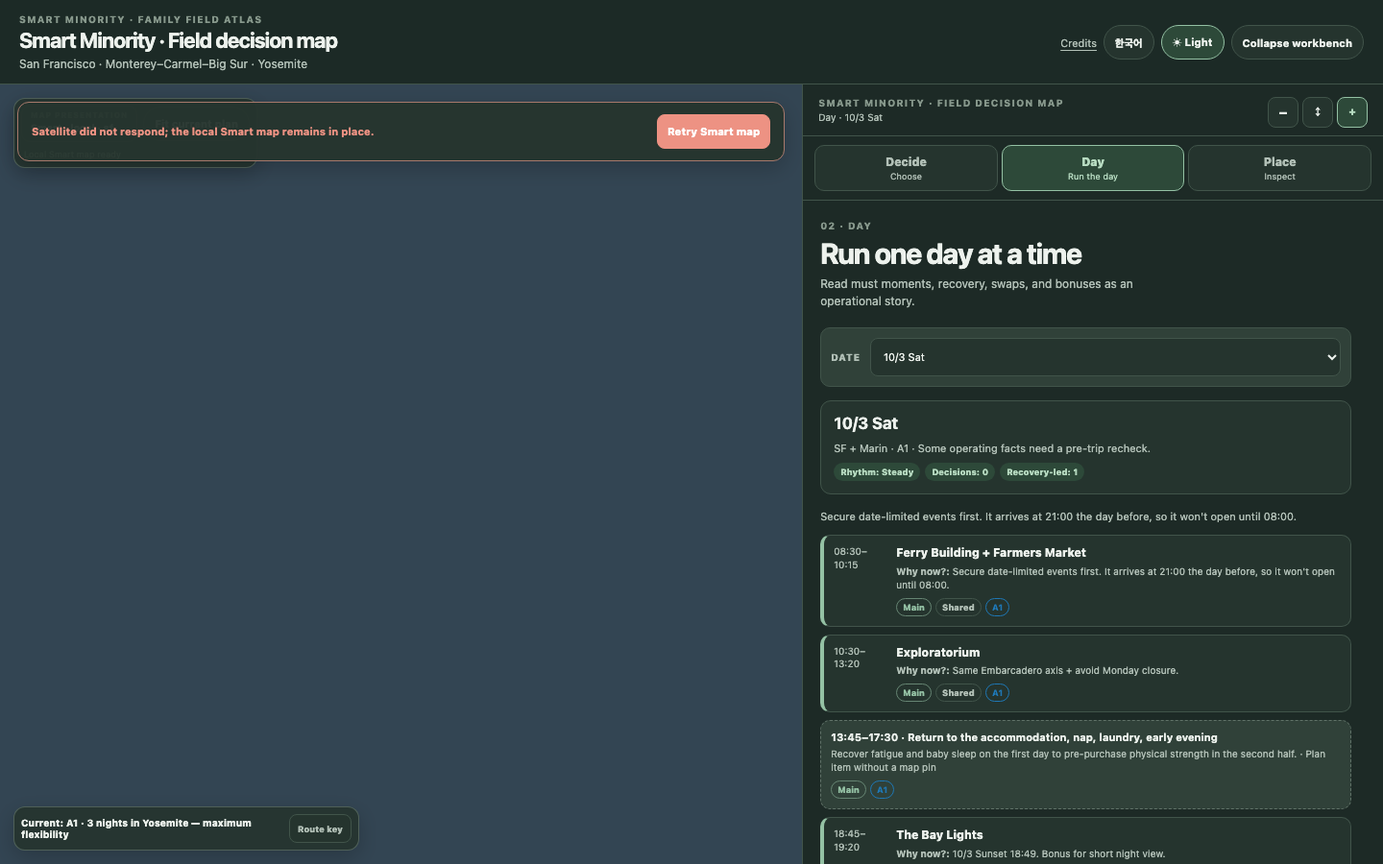
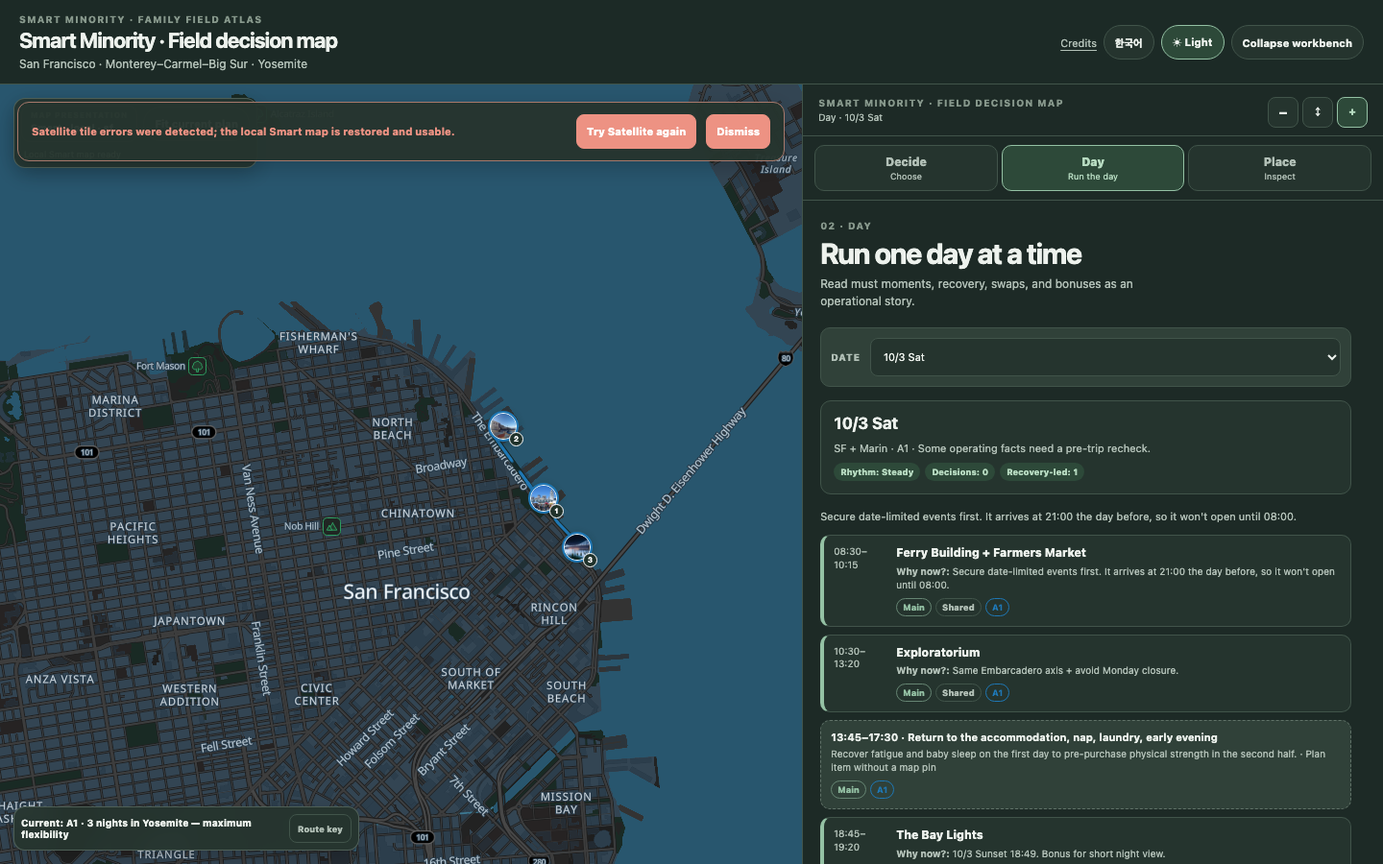
fix: restore Smart camera after Satellite failure

diff --git a/src/app_phase7.js b/src/app_phase7.js
@@ -40,6 +40,7 @@
   let geometryWaiters = [];
   let observedMapSize = null;
   let satelliteFallbackFlight = null;
+  let smartCamera = null;
 
   const markStartup = (name, detail = {}) => {
     if (typeof window.__tripStartupMark === 'function') return window.__tripStartupMark(name, detail);
@@ -138,6 +139,18 @@
   }
   function setStatus(text) {
     const startup = document.getElementById('startupStatus'); if (startup) startup.textContent = text;
+  }
+  function clearMapFeedback() {
+    const errorBox = document.getElementById('mapError'), retry = document.getElementById('smartRetry');
+    if (errorBox) errorBox.hidden = true;
+    if (retry) { retry.dataset.retryProvider = 'vector'; retry.textContent = m('retrySmart'); }
+  }
+  function showSatelliteFallbackFeedback() {
+    const errorBox = document.getElementById('mapError'), retry = document.getElementById('smartRetry');
+    if (!errorBox) return;
+    errorBox.querySelector('.map-error-message').textContent = m('satelliteFallback');
+    errorBox.hidden = false;
+    if (retry) { retry.dataset.retryProvider = 'satellite'; retry.textContent = m('retrySatellite'); }
   }
   function showMapFailure(error, phase = 'runtime') {
     const message = `${m('smartFailure')} ${mapFailureText(error, phase)}`;
@@ -247,7 +260,7 @@
       state.runtime.providerHealth[provider] = 'failed'; state.runtime.provider = 'vector';
       if (reason === 'tile_error') recordRuntimeEvent('tile_error', provider, detail);
       recordRuntimeEvent('fallback_to_smart', provider, { reason, ...detail });
-      const errorBox = document.getElementById('mapError'); if (errorBox && provider === 'satellite') { errorBox.querySelector('.map-error-message').textContent = m('satelliteFallback'); errorBox.hidden = false; }
+      if (provider === 'satellite') showSatelliteFallbackFeedback();
       renderProviderState(); persist(); await drawMap(true); return false;
     })();
     if (provider !== 'satellite') return fallback;
@@ -256,10 +269,11 @@
   }
   async function chooseProvider(provider) {
     if (!['vector', 'satellite'].includes(provider)) return false;
-    if (provider === 'vector') { state.runtime.provider = 'vector'; document.getElementById('mapError').hidden = true; renderProviderState(); persist(); return drawMap(true); }
+    if (provider === 'vector') { rememberSmartCamera(); state.runtime.provider = 'vector'; clearMapFeedback(); renderProviderState(); persist(); return drawMap(true); }
+    rememberSmartCamera();
     const ok = await testProvider(provider) && await testViewportProvider(provider);
     if (!ok) { await returnToSmart(provider, 'probe_failure'); return false; }
-    state.runtime.provider = provider; state.runtime.providerSwitches++; recordRuntimeEvent('provider_switch', provider, { from: 'vector' }); renderProviderState(); persist(); return drawMap(true);
+    clearMapFeedback(); state.runtime.provider = provider; state.runtime.providerSwitches++; recordRuntimeEvent('provider_switch', provider, { from: 'vector' }); renderProviderState(); persist(); return drawMap(true);
   }
   function renderProviderState() {
     const provider = state.runtime.provider, health = state.runtime.providerHealth[provider] || 'untested', status = document.getElementById('providerStatus');
@@ -289,6 +303,50 @@
       });
     }
     return features;
+  }
+  function cameraTaskContext() {
+    return { routes: [...state.task.routes].sort(), primary_route: state.task.primaryRoute, compare_routes: [...state.task.compareRoutes].sort(), date: state.task.date, region: state.task.region };
+  }
+  function sameCameraTask(a, b) {
+    return !!a && !!b && JSON.stringify(a) === JSON.stringify(b);
+  }
+  function cameraView(map = photoMap) {
+    if (!map) return null;
+    const center = map.getCenter?.();
+    if (!center || !Number.isFinite(center.lng) || !Number.isFinite(center.lat)) return null;
+    return { center: [center.lng, center.lat], zoom: map.getZoom(), bearing: map.getBearing(), pitch: map.getPitch() };
+  }
+  function mapSpatialSnapshot(map = photoMap) {
+    if (!map) return { useful: false, reason: 'map-missing' };
+    const canvas = map.getCanvas?.(), width = canvas?.clientWidth || canvas?.width || 0, height = canvas?.clientHeight || canvas?.height || 0;
+    if (!width || !height) return { useful: false, reason: 'viewport-missing', width, height };
+    const inside = point => point && point.x >= 0 && point.x <= width && point.y >= 0 && point.y <= height;
+    const visibleMarkers = DATA.markers.filter(item => markerVisible(item, { map: true }));
+    const markerPoints = visibleMarkers.map(item => { try { return map.project([item.lon, item.lat]); } catch { return null; } }).filter(Boolean);
+    const routeFeatures = visibleRouteFeatures().filter(feature => feature.properties.kind !== 'transfer');
+    const routePoints = routeFeatures.flatMap(feature => feature.geometry.coordinates).map(coordinate => { try { return map.project(coordinate); } catch { return null; } }).filter(Boolean);
+    const markerPointsInViewport = markerPoints.filter(inside), routePointsInViewport = routePoints.filter(inside);
+    const routeFeaturesInViewport = routeFeatures.filter(feature => feature.geometry.coordinates.some(coordinate => { try { return inside(map.project(coordinate)); } catch { return false; } }));
+    const contentPoints = [...markerPointsInViewport, ...routePointsInViewport];
+    const minX = contentPoints.length ? Math.min(...contentPoints.map(point => point.x)) : 0, maxX = contentPoints.length ? Math.max(...contentPoints.map(point => point.x)) : 0;
+    const minY = contentPoints.length ? Math.min(...contentPoints.map(point => point.y)) : 0, maxY = contentPoints.length ? Math.max(...contentPoints.map(point => point.y)) : 0;
+    const occupancy = width * height ? Math.max(0, (maxX - minX) * (maxY - minY)) / (width * height) : 0;
+    return { useful: markerPointsInViewport.length > 0 && (routeFeaturesInViewport.length > 0 || markerPointsInViewport.length > 1), width, height, visible_markers: visibleMarkers.length, markers_in_viewport: markerPointsInViewport.length, route_features: routeFeatures.length, route_features_in_viewport: routeFeaturesInViewport.length, route_points_in_viewport: routePointsInViewport.length, content_occupancy_ratio: Number(occupancy.toFixed(4)) };
+  }
+  function rememberSmartCamera(map = photoMap) {
+    if (!map || state.runtime.provider !== 'vector' || renderedProvider !== 'vector' || !state.runtime.mapVisualReady) return null;
+    const view = cameraView(map), spatial = mapSpatialSnapshot(map);
+    if (!view || !spatial.useful) return null;
+    smartCamera = { ...view, task: cameraTaskContext(), spatial, owner: 'smart' };
+    return smartCamera;
+  }
+  function validSmartCamera() {
+    return smartCamera && sameCameraTask(smartCamera.task, cameraTaskContext()) && smartCamera.spatial?.useful ? smartCamera : null;
+  }
+  function viewForDraw(preserve, previous) {
+    if (!preserve || !previous) return null;
+    if (renderedProvider === state.runtime.provider) return cameraView(previous);
+    return validSmartCamera() ? { center: validSmartCamera().center, zoom: validSmartCamera().zoom, bearing: validSmartCamera().bearing, pitch: validSmartCamera().pitch } : null;
   }
   function installRouteLayers(map) {
     markStartup('route_layer_install_start');
@@ -530,9 +588,9 @@
       const previous = photoMap, same = previous && renderedProvider === state.runtime.provider && renderedTheme === state.presentation.theme;
       clusterMarkers.forEach(marker => marker.remove()); clusterMarkers = []; photoMarkers.forEach(marker => marker.remove()); photoMarkers = []; legMarkers.forEach(marker => marker.remove()); legMarkers = [];
       if (same && state.runtime.localAssets.status === 'ready') {
-        previous.getSource('trip-routes')?.setData({ type: 'FeatureCollection', features: visibleRouteFeatures() }); installPhotoMarkers(previous); installLegLabels(previous); renderMapLegend(); if (!preserve || mapGeometrySnapshot().markers.some(marker => marker.intersects_obstacle.length)) fitVisibleMap(previous); return true;
+        previous.getSource('trip-routes')?.setData({ type: 'FeatureCollection', features: visibleRouteFeatures() }); installPhotoMarkers(previous); installLegLabels(previous); renderMapLegend(); if (!preserve || mapGeometrySnapshot().markers.some(marker => marker.intersects_obstacle.length)) fitVisibleMap(previous); rememberSmartCamera(previous); return true;
       }
-      const view = preserve && previous ? { center: previous.getCenter(), zoom: previous.getZoom() } : null;
+      const view = viewForDraw(preserve, previous);
       if (previous) { previous.__tripCleanup?.(); previous.remove(); state.runtime.mapRemovals += 1; }
       const region = DATA.region_cfg[state.task.region];
       let map;
@@ -540,7 +598,8 @@
         state.runtime.mapStatus = 'loading'; state.runtime.mapVisualReady = false;
         map = new maplibregl.Map({ container: 'map', style: providerStyle(state.runtime.provider), center: [region.center.lon, region.center.lat], zoom: region.zoom, attributionControl: false, dragRotate: false, pitchWithRotate: false, maxZoom: 18 });
         photoMap = map; renderedProvider = state.runtime.provider; renderedTheme = state.presentation.theme; state.runtime.mapCreations += 1; state.runtime.mapStatus = 'loading'; renderProviderState(); markStartup('map_created');
-        map.on('load', () => { markStartup('map_style_ready'); installRouteLayers(map); installPhotoMarkers(map, { deferClusters: true }); installLegLabels(map); if (view) map.jumpTo(view); else fitVisibleMap(map); updatePhotoClusters(); state.runtime.mapStatus = 'ready'; state.runtime.mapVisualReady = true; renderProviderState(); renderMapLegend(); renderShellStatus(); markStartup('map_visual_ready', { markers: photoMarkers.length, layers: map.getStyle()?.layers?.length || 0 }); });
+        map.on('load', () => { markStartup('map_style_ready'); installRouteLayers(map); installPhotoMarkers(map, { deferClusters: true }); installLegLabels(map); if (view) map.jumpTo(view); else fitVisibleMap(map); updatePhotoClusters(); state.runtime.mapStatus = 'ready'; state.runtime.mapVisualReady = true; if (state.runtime.provider === 'vector') rememberSmartCamera(map); renderProviderState(); renderMapLegend(); renderShellStatus(); markStartup('map_visual_ready', { markers: photoMarkers.length, layers: map.getStyle()?.layers?.length || 0 }); });
+        map.on('moveend', () => { if (state.runtime.provider === 'vector' && renderedProvider === 'vector') rememberSmartCamera(map); });
         map.on('click', () => hidePeek({ returnFocus: false }));
         map.on('error', event => { if (isSatelliteRasterError(event, map)) { void returnToSmart('satellite', 'tile_error', { source_id: event.sourceId, message: String(event?.error?.message || event?.message || event?.error || 'raster tile request failed') }); return; } if (localMapError(event)) showMapFailure(event.error || event.message, 'map_runtime'); });
         return true;
@@ -706,6 +765,7 @@
     const compareKicker = document.querySelector('.compare-section .eyebrow'); if (compareKicker) compareKicker.textContent = m('compareKicker');
     document.getElementById('langToggle').textContent = state.presentation.lang === 'ko' ? 'EN' : '한국어'; document.getElementById('themeToggle').textContent = state.presentation.theme === 'dark' ? `☀ ${m('light')}` : `☾ ${m('dark')}`;
     document.getElementById('workbenchToggle').textContent = state.presentation.sheet === 'compact' ? m('expand') : m('collapse');
+    const smartRetry = document.getElementById('smartRetry'); if (smartRetry) smartRetry.textContent = m(smartRetry.dataset.retryProvider === 'satellite' ? 'retrySatellite' : 'retrySmart');
     syncSheetPresentation();
     renderProviderState();
     document.querySelectorAll('[data-sheet]').forEach(button => { if (button.classList.contains('icon-button')) { button.setAttribute('aria-pressed', String(button.dataset.sheet === state.presentation.sheet)); button.title = m(button.dataset.sheet); button.setAttribute('aria-label', m(button.dataset.sheet)); } });
@@ -751,7 +811,12 @@
     document.getElementById('langToggle').onclick = () => { state.presentation.lang = state.presentation.lang === 'ko' ? 'en' : 'ko'; hidePeek({ returnFocus: false }); renderAll(); persist(); drawMap(true); };
     document.getElementById('themeToggle').onclick = () => { state.presentation.theme = state.presentation.theme === 'dark' ? 'light' : 'dark'; renderAll(); persist(); drawMap(true); };
     document.getElementById('fitMap').onclick = () => fitVisibleMap();
-    document.getElementById('smartRetry').onclick = async () => { document.getElementById('mapError').hidden = true; state.runtime.provider = 'vector'; state.runtime.providerHealth.vector = 'loading'; state.runtime.localAssets.status = 'checking'; renderProviderState(); try { await setupVector(); await drawMap(true); } catch (error) { showMapFailure(error, 'retry'); } };
+    document.getElementById('mapErrorDismiss').onclick = () => { document.getElementById('mapError').hidden = true; };
+    document.getElementById('smartRetry').onclick = async event => {
+      const retry = event.currentTarget;
+      if (retry.dataset.retryProvider === 'satellite') { retry.disabled = true; document.getElementById('mapError').hidden = true; await chooseProvider('satellite'); retry.disabled = false; return; }
+      document.getElementById('mapError').hidden = true; state.runtime.provider = 'vector'; state.runtime.providerHealth.vector = 'loading'; state.runtime.localAssets.status = 'checking'; renderProviderState(); try { await setupVector(); await drawMap(true); } catch (error) { showMapFailure(error, 'retry'); }
+    };
     document.getElementById('dateSelect').onchange = event => { state.task.date = event.target.value; if (state.task.selected && !markerVisible(markerByKey[state.task.selected])) state.task.selected = null; state.presentation.mode = 'day'; renderAll(); persist(); drawMap(false); };
     const handleEscape = event => { if (event.key !== 'Escape') return; if (state.presentation.mapOptionsOpen) { setMapOptionsOpen(false); event.preventDefault(); return; } if (state.presentation.routeLegendOpen) { setRouteLegendOpen(false); event.preventDefault(); return; } if (state.presentation.peek) { hidePeek(); event.preventDefault(); return; } if (state.presentation.mode === 'place') { closePlace(); event.preventDefault(); return; } if (state.presentation.sheet === 'full') { setSheet('expanded'); event.preventDefault(); } };
     document.onkeydown = handleEscape;
@@ -777,7 +842,7 @@
 
   /* ----- QA instrumentation and compatibility surface ----- */
   function runtimeSnapshot() {
-    return { provider: state.runtime.provider, provider_identity: state.runtime.providerIdentity, provider_health: { ...state.runtime.providerHealth }, app_ready: state.runtime.mapStatus === 'ready', map_visual_ready: state.runtime.mapVisualReady, planning_state: { routes: [...activeRoutes()], primary_route: state.task.primaryRoute, compare_routes: [...state.task.compareRoutes], date: state.task.date, region: state.task.region, selected: state.task.selected, mode: state.presentation.mode, sheet: state.presentation.sheet, lang: state.presentation.lang, theme: state.presentation.theme }, provider_events: state.runtime.providerEvents.slice(), local_assets: { status: state.runtime.localAssets.status, failures: state.runtime.localAssets.failures.slice() }, startup: { marks: [...(window.__tripStartupMarks || [])] }, runtime: { ...state.runtime, events: state.runtime.events.slice() }, map: { canvas_count: document.querySelectorAll('.maplibregl-canvas').length, photo_markers: document.querySelectorAll('.photo-marker').length, photo_marker_keys: [...document.querySelectorAll('.photo-marker')].map(element => element.dataset.placeKey), clusters: document.querySelectorAll('.photo-cluster').length, leg_markers: document.querySelectorAll('.route-leg-label').length, layers: photoMap?.getStyle?.()?.layers?.length || 0 } };
+    return { provider: state.runtime.provider, provider_identity: state.runtime.providerIdentity, provider_health: { ...state.runtime.providerHealth }, app_ready: state.runtime.mapStatus === 'ready', map_visual_ready: state.runtime.mapVisualReady, planning_state: { routes: [...activeRoutes()], primary_route: state.task.primaryRoute, compare_routes: [...state.task.compareRoutes], date: state.task.date, region: state.task.region, selected: state.task.selected, mode: state.presentation.mode, sheet: state.presentation.sheet, lang: state.presentation.lang, theme: state.presentation.theme }, provider_events: state.runtime.providerEvents.slice(), local_assets: { status: state.runtime.localAssets.status, failures: state.runtime.localAssets.failures.slice() }, startup: { marks: [...(window.__tripStartupMarks || [])] }, runtime: { ...state.runtime, events: state.runtime.events.slice() }, smart_camera: validSmartCamera(), map: { canvas_count: document.querySelectorAll('.maplibregl-canvas').length, photo_markers: document.querySelectorAll('.photo-marker').length, photo_marker_keys: [...document.querySelectorAll('.photo-marker')].map(element => element.dataset.placeKey), clusters: document.querySelectorAll('.photo-cluster').length, leg_markers: document.querySelectorAll('.route-leg-label').length, layers: photoMap?.getStyle?.()?.layers?.length || 0, camera: cameraView(), spatial: mapSpatialSnapshot() } };
   }
   function renderFixture(value) {
     const marker = DATA.markers[0], saved = marker ? JSON.parse(JSON.stringify(marker)) : null;
@@ -786,7 +851,7 @@
     finally { Object.assign(marker, saved); renderPlace(); }
   }
   function expose() {
-    window.__tripApp = { state, DATA, drawMap, whenIdle: () => Promise.all([drawQueue, scheduleMapGeometryUpdate()]), whenGeometryIdle: () => scheduleMapGeometryUpdate(), map: () => photoMap, whenMapVisualReady: () => Promise.resolve(runtimeSnapshot().map), selectPlace, chooseProvider, testProvider, setMode, setSheet, setTab: tab => setMode(tab === 'timeline' ? 'day' : tab === 'details' ? 'place' : 'decide'), markerVisible, timelineVisible, legVisible, visibleRouteFeatures, renderTimeline: renderDay, renderDetail: key => { if (key) state.task.selected = key; renderPlace(); }, showPreview: showPeek, showRoutePeek: properties => showRoutePeek(properties), hidePreview: hidePeek, fitVisibleMap, mapGeometrySnapshot, runtimeSnapshot };
+    window.__tripApp = { state, DATA, drawMap, whenIdle: () => Promise.all([drawQueue, scheduleMapGeometryUpdate()]), whenGeometryIdle: () => scheduleMapGeometryUpdate(), map: () => photoMap, whenMapVisualReady: () => Promise.resolve(runtimeSnapshot().map), selectPlace, chooseProvider, testProvider, setMode, setSheet, setTab: tab => setMode(tab === 'timeline' ? 'day' : tab === 'details' ? 'place' : 'decide'), markerVisible, timelineVisible, legVisible, visibleRouteFeatures, renderTimeline: renderDay, renderDetail: key => { if (key) state.task.selected = key; renderPlace(); }, showPreview: showPeek, showRoutePeek: properties => showRoutePeek(properties), hidePreview: hidePeek, fitVisibleMap, mapGeometrySnapshot, mapSpatialSnapshot, runtimeSnapshot };
     window.__tripSecurity = { escapeHtml: esc, safeExternalUrl, safePhotoPath: photoPath, renderFixture, allowedStorageKeys: ['trip_visualizer_runtime_v2', 'trip_visualizer_runtime_v1', 'trip_lang', 'trip_theme'] };
   }
   async function init() {

diff --git a/src/atlas_messages.js b/src/atlas_messages.js
@@ -36,9 +36,9 @@
       mapControls: '지도 표현', mapOptions: '지도 옵션', provider: '제공자', routeKey: '경로 키', smartMap: 'Smart · 로컬', satellite: 'Satellite', fit: '현재 계획 맞추기',
       mapReady: '로컬 Smart 지도 준비 완료', mapChecking: '로컬 지도를 여는 중', mapUnavailable: '로컬 지도 사용 불가',
       satelliteReady: 'Satellite 준비 완료', satelliteChecking: 'Satellite 확인 중', satelliteUnavailable: 'Satellite 사용 불가',
-      satelliteFallback: 'Satellite가 응답하지 않아 로컬 Smart 지도를 유지합니다.',
+      satelliteFallback: 'Satellite 타일 오류를 감지해 로컬 Smart 지도로 돌아왔습니다. 여행 지도는 사용할 수 있습니다.',
       smartFailure: '로컬 지도에 문제가 생겼지만 일정과 결정 정보는 계속 사용할 수 있습니다.',
-      retrySmart: 'Smart 지도 다시 시도', providerStatus: '지도 상태',
+      retrySmart: 'Smart 지도 다시 시도', retrySatellite: 'Satellite 다시 시도', dismissMapFeedback: '닫기', providerStatus: '지도 상태',
       language: '언어', theme: '화면', dark: '다크', light: '라이트',
       collapse: '워크벤치 접기', expand: '워크벤치 펼치기', compact: '작게', expanded: '보통', full: '크게',
       route: '경로', routeScore: '점수 프로필', score: '점',
@@ -88,9 +88,9 @@
       mapControls: 'Map presentation', mapOptions: 'Map options', provider: 'Provider', routeKey: 'Route key', smartMap: 'Smart · local', satellite: 'Satellite', fit: 'Fit current plan',
       mapReady: 'Local Smart map ready', mapChecking: 'Opening local map', mapUnavailable: 'Local map unavailable',
       satelliteReady: 'Satellite ready', satelliteChecking: 'Checking Satellite', satelliteUnavailable: 'Satellite unavailable',
-      satelliteFallback: 'Satellite did not respond; the local Smart map remains in place.',
+      satelliteFallback: 'Satellite tile errors were detected; the local Smart map is restored and usable.',
       smartFailure: 'The local map has a problem, but itinerary and decision information remain available.',
-      retrySmart: 'Retry Smart map', providerStatus: 'Map status',
+      retrySmart: 'Retry Smart map', retrySatellite: 'Try Satellite again', dismissMapFeedback: 'Dismiss', providerStatus: 'Map status',
       language: 'Language', theme: 'Theme', dark: 'Dark', light: 'Light',
       collapse: 'Collapse workbench', expand: 'Expand workbench', compact: 'Compact', expanded: 'Expanded', full: 'Full',
       route: 'Route', routeScore: 'Score profile', score: 'score',

diff --git a/src/map_shell_template.html b/src/map_shell_template.html
@@ -63,6 +63,7 @@
         <div id="mapError" class="map-error" role="alert" aria-live="assertive" hidden>
           <div class="map-error-message"></div>
           <button id="smartRetry" type="button" data-i18n="retrySmart">Smart 지도 다시 시도</button>
+          <button id="mapErrorDismiss" type="button" class="secondary-action" data-i18n="dismissMapFeedback">닫기</button>
         </div>
         <div id="peek" class="peek" role="dialog" aria-modal="false" aria-hidden="true" aria-labelledby="peekTitle" aria-describedby="peekDescription"></div>
       </section>

diff --git a/scripts/qa_gate4_resilience.py b/scripts/qa_gate4_resilience.py
@@ -382,6 +382,9 @@ def browser_runtime_report(modular_url: str, standalone_path: Path) -> dict:
                 deterministic_page.locator(".photo-marker").first.click()
             deterministic_page.wait_for_timeout(300)
             stable_before_satellite = snapshot(deterministic_page)
+            pre_satellite_smart_camera = stable_before_satellite.get("smart_camera")
+            if not pre_satellite_smart_camera or not pre_satellite_smart_camera.get("spatial", {}).get("useful"):
+                deterministic_failures.append("useful Smart camera/spatial context was not recorded before Satellite activation")
             activated = bool(deterministic_page.evaluate("async()=>await window.__tripApp.chooseProvider('satellite')"))
             deterministic_page.wait_for_function("window.__tripApp.state.provider==='satellite' && window.__tripApp.state.runtime.mapVisualReady===true", timeout=30000)
             satellite_active = snapshot(deterministic_page)
@@ -390,7 +393,7 @@ def browser_runtime_report(modular_url: str, standalone_path: Path) -> dict:
                 deterministic_failures.append("fulfilled Satellite activation did not establish a ready raster map")
 
             deterministic["phase"] = "failure"
-            deterministic_page.evaluate("()=>window.__tripApp.map().jumpTo({center:[-118.2437,34.0522],zoom:13,bearing:0,pitch:0})")
+            deterministic_page.evaluate("()=>window.__tripApp.map().panTo([-118.2437,34.0522],{duration:0})")
             deterministic_page.wait_for_function("window.__tripApp.state.provider==='vector' && window.__tripApp.state.runtime.mapVisualReady===true", timeout=30000)
             deterministic_page.wait_for_timeout(900)
             recovered = snapshot(deterministic_page)
@@ -399,6 +402,29 @@ def browser_runtime_report(modular_url: str, standalone_path: Path) -> dict:
             stats = recovered["runtime"]["providerStats"]["satellite"]
             preserved = stable_before_satellite["planning_state"] == recovered["planning_state"]
             activation_state_preserved = stable_before_satellite["planning_state"] == satellite_active["planning_state"]
+            inherited_remote_spatial = deterministic_page.evaluate("""()=>{const app=window.__tripApp,map=app.map();map.jumpTo({center:[-118.2437,34.0522],zoom:13,bearing:0,pitch:0});return app.mapSpatialSnapshot();}""")
+            restored_view = recovered.get("map", {}).get("camera")
+            if restored_view:
+                deterministic_page.evaluate("view=>window.__tripApp.map().jumpTo(view)", restored_view)
+            deterministic_page.wait_for_timeout(250)
+            recovered = snapshot(deterministic_page)
+            recovered_spatial = recovered.get("map", {}).get("spatial") or {}
+            prior_view = pre_satellite_smart_camera or {}
+            recovered_view = recovered.get("map", {}).get("camera") or {}
+            camera_match = bool(prior_view and recovered_view and all(abs(float(recovered_view["center"][index]) - float(prior_view["center"][index])) < 0.0001 for index in (0, 1)) and abs(float(recovered_view["zoom"]) - float(prior_view["zoom"])) < 0.01)
+            spatial_recovery = {
+                "pre_satellite_smart_camera": pre_satellite_smart_camera,
+                "recovered_smart_camera": recovered.get("smart_camera"),
+                "recovered_map_camera": recovered_view,
+                "camera_restored": camera_match,
+                "inherited_satellite_camera_negative_control": inherited_remote_spatial,
+                "inherited_camera_was_spatially_empty": not inherited_remote_spatial.get("useful") and inherited_remote_spatial.get("markers_in_viewport", 0) == 0 and inherited_remote_spatial.get("route_features_in_viewport", 0) == 0,
+                "recovered_spatial": recovered_spatial,
+                "recovered_useful": bool(recovered_spatial.get("useful")),
+                "recovered_markers_in_viewport": recovered_spatial.get("markers_in_viewport", 0),
+                "recovered_routes_in_viewport": recovered_spatial.get("route_features_in_viewport", 0),
+                "recovered_content_occupancy_ratio": recovered_spatial.get("content_occupancy_ratio", 0),
+            }
             bounded = {
                 "single_fallback": stats["fallbacks"] == 1 and len(fallback_events) == 1,
                 "single_tile_error_episode": stats["tileErrors"] == 1 and len(tile_events) == 1,
@@ -406,8 +432,14 @@ def browser_runtime_report(modular_url: str, standalone_path: Path) -> dict:
                 "single_canvas": recovered["map"]["canvas_count"] == 1,
                 "unique_markers": len(set(recovered["map"]["photo_marker_keys"])) == recovered["map"]["photo_markers"],
                 "bounded_failure_requests": len(deterministic["failure_requests"]) <= 48,
+                "inherited_camera_negative_control": spatial_recovery["inherited_camera_was_spatially_empty"],
+                "recovered_camera_or_safe_fit": spatial_recovery["camera_restored"] or (spatial_recovery["recovered_useful"] and spatial_recovery["recovered_markers_in_viewport"] > 0),
+                "recovered_task_occupancy": spatial_recovery["recovered_useful"] and spatial_recovery["recovered_markers_in_viewport"] > 0 and spatial_recovery["recovered_routes_in_viewport"] > 0,
             }
-            feedback_visible = bool(deterministic_page.locator("#mapError:not([hidden])").count()) and "Smart" in deterministic_page.locator("#mapError .map-error-message").inner_text()
+            feedback_message = deterministic_page.locator("#mapError .map-error-message").inner_text() if deterministic_page.locator("#mapError:not([hidden])").count() else ""
+            feedback_action = deterministic_page.locator("#smartRetry").inner_text() if deterministic_page.locator("#smartRetry").count() else ""
+            feedback_visible = bool(feedback_message) and "Smart" in feedback_message
+            feedback_truthful = feedback_visible and "failed" not in feedback_message.lower() and "Satellite" in feedback_action
             screenshot_path = ROOT / "QA" / "project_os_verify" / "ui_revamp_r5" / "satellite_failure_recovery_1440x900.png"
             screenshot_path.parent.mkdir(parents=True, exist_ok=True)
             deterministic_page.screenshot(path=str(screenshot_path))
@@ -433,13 +465,15 @@ def browser_runtime_report(modular_url: str, standalone_path: Path) -> dict:
                 deterministic_failures.append("Smart map_visual_ready did not recover")
             if not feedback_visible:
                 deterministic_failures.append("Satellite recovery feedback was not visible")
+            if not feedback_truthful:
+                deterministic_failures.append("Satellite recovery feedback did not truthfully describe usable Smart recovery")
             if not retry_allowed:
                 deterministic_failures.append("explicit later Satellite probe was not allowed")
             deterministic_row = {
                 "status": "PASS" if not deterministic_failures and recovered["provider"] == "vector" and smart_identity(recovered["provider_identity"]) and recovered["provider_health"].get("satellite") == "failed" and recovered["map_visual_ready"] and preserved and feedback_visible and all(bounded.values()) and retry_allowed else "FAIL",
                 "mode": "deterministic_fulfilled_then_failed_remote_raster",
                 "activation": {"result": activated, "provider": satellite_active["provider"], "provider_health": satellite_active["provider_health"], "success_requests": len(deterministic["success_requests"]), "raster_success_requests": len(raster_success_requests), "snapshot": satellite_active},
-                "recovery": {"provider": recovered["provider"], "provider_identity": recovered["provider_identity"], "provider_health": recovered["provider_health"], "satellite_stats": stats, "tile_error_events": tile_events, "fallback_events": fallback_events, "activation_state_preserved": activation_state_preserved, "planning_state_preserved": preserved, "feedback_visible": feedback_visible, "map_visual_ready": recovered["map_visual_ready"], "snapshot": recovered},
+                "recovery": {"provider": recovered["provider"], "provider_identity": recovered["provider_identity"], "provider_health": recovered["provider_health"], "satellite_stats": stats, "tile_error_events": tile_events, "fallback_events": fallback_events, "activation_state_preserved": activation_state_preserved, "planning_state_preserved": preserved, "feedback_visible": feedback_visible, "feedback_truthful": feedback_truthful, "map_visual_ready": recovered["map_visual_ready"], "spatial_recovery": spatial_recovery, "snapshot": recovered},
                 "retry_allowed": retry_allowed,
                 "bounded": bounded,
                 "failure_requests": len(deterministic["failure_requests"]),

diff --git a/tests/test_gate5_qualification.py b/tests/test_gate5_qualification.py
@@ -128,6 +128,25 @@ class Gate5QualificationTests(unittest.TestCase):
         self.assertIn("reason === 'tile_error'", source)
         self.assertIn("if (localMapError(event))", source)
 
+    def test_provider_camera_ownership_has_spatial_recovery_boundary(self):
+        source = (Path(__file__).resolve().parents[1] / "src/app_phase7.js").read_text()
+        self.assertIn("let smartCamera = null", source)
+        self.assertIn("function mapSpatialSnapshot(map = photoMap)", source)
+        self.assertIn("function rememberSmartCamera(map = photoMap)", source)
+        self.assertIn("function validSmartCamera()", source)
+        self.assertIn("return validSmartCamera() ?", source)
+        self.assertIn("if (state.runtime.provider === 'vector') rememberSmartCamera(map)", source)
+        self.assertIn("smart_camera: validSmartCamera()", source)
+
+    def test_satellite_recovery_feedback_does_not_retry_smart_as_if_smart_failed(self):
+        source = (Path(__file__).resolve().parents[1] / "src/app_phase7.js").read_text()
+        messages = (Path(__file__).resolve().parents[1] / "src/atlas_messages.js").read_text()
+        template = (Path(__file__).resolve().parents[1] / "src/map_shell_template.html").read_text()
+        self.assertIn("retry.dataset.retryProvider = 'satellite'", source)
+        self.assertIn("retryProvider === 'satellite'", source)
+        self.assertIn("retrySatellite", messages)
+        self.assertIn('id="mapErrorDismiss"', template)
+
 
 if __name__ == "__main__":
     unittest.main()
